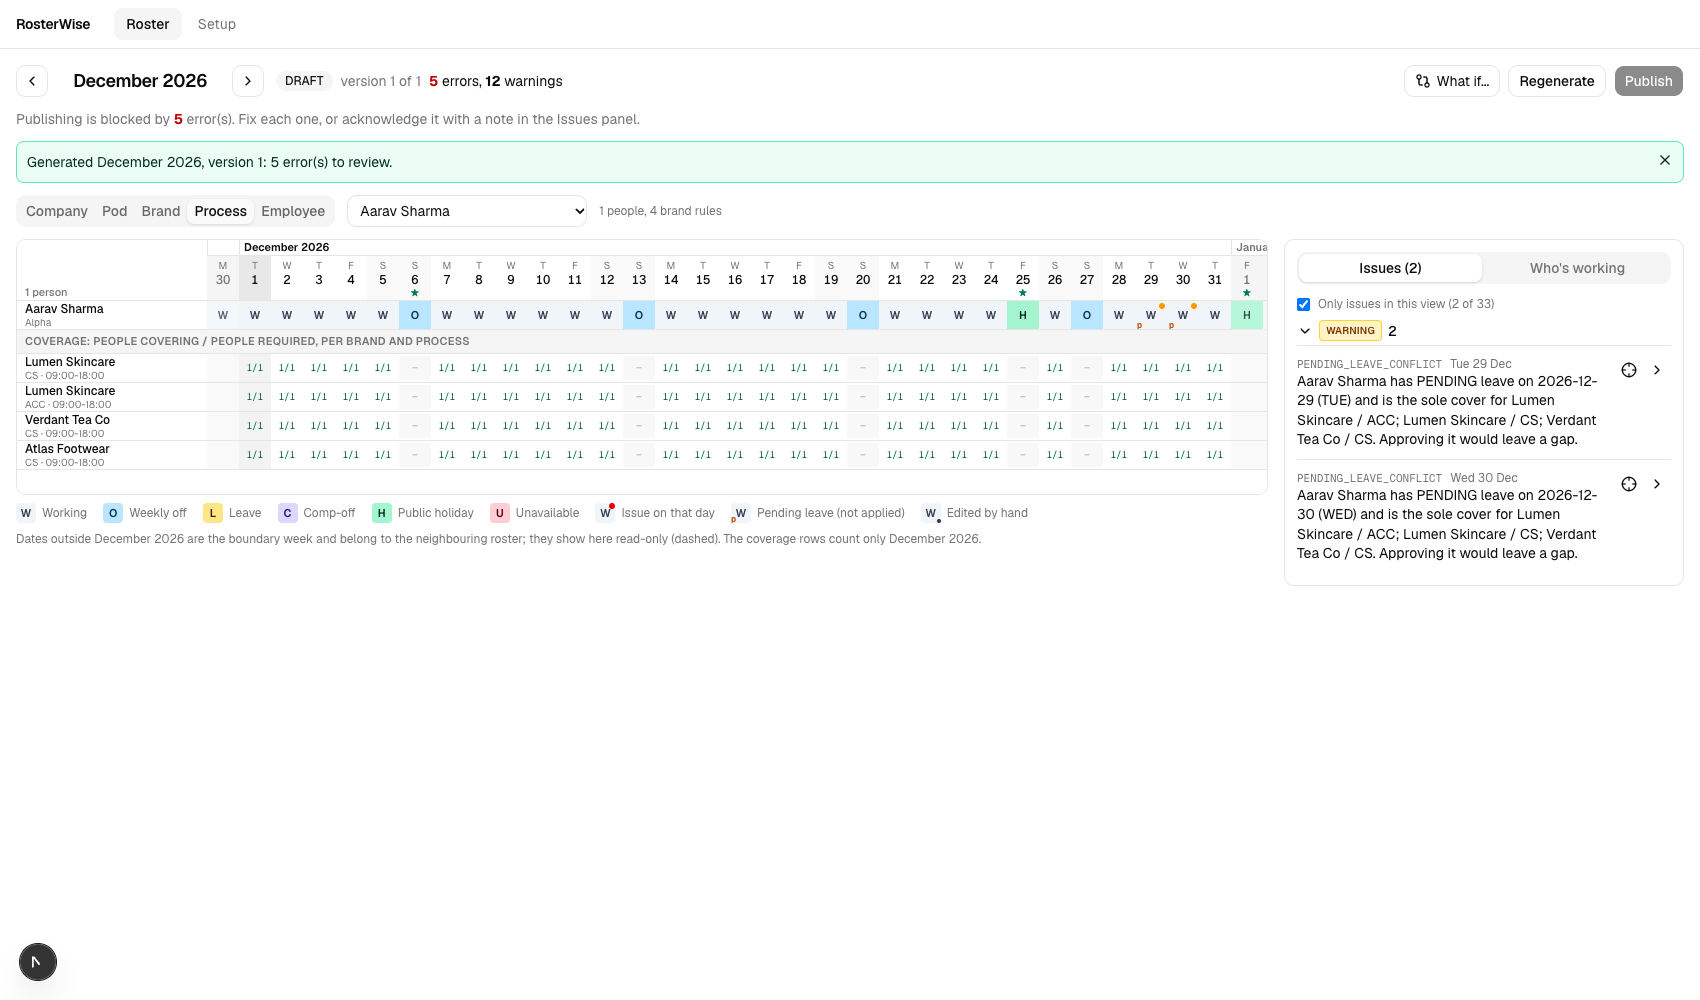
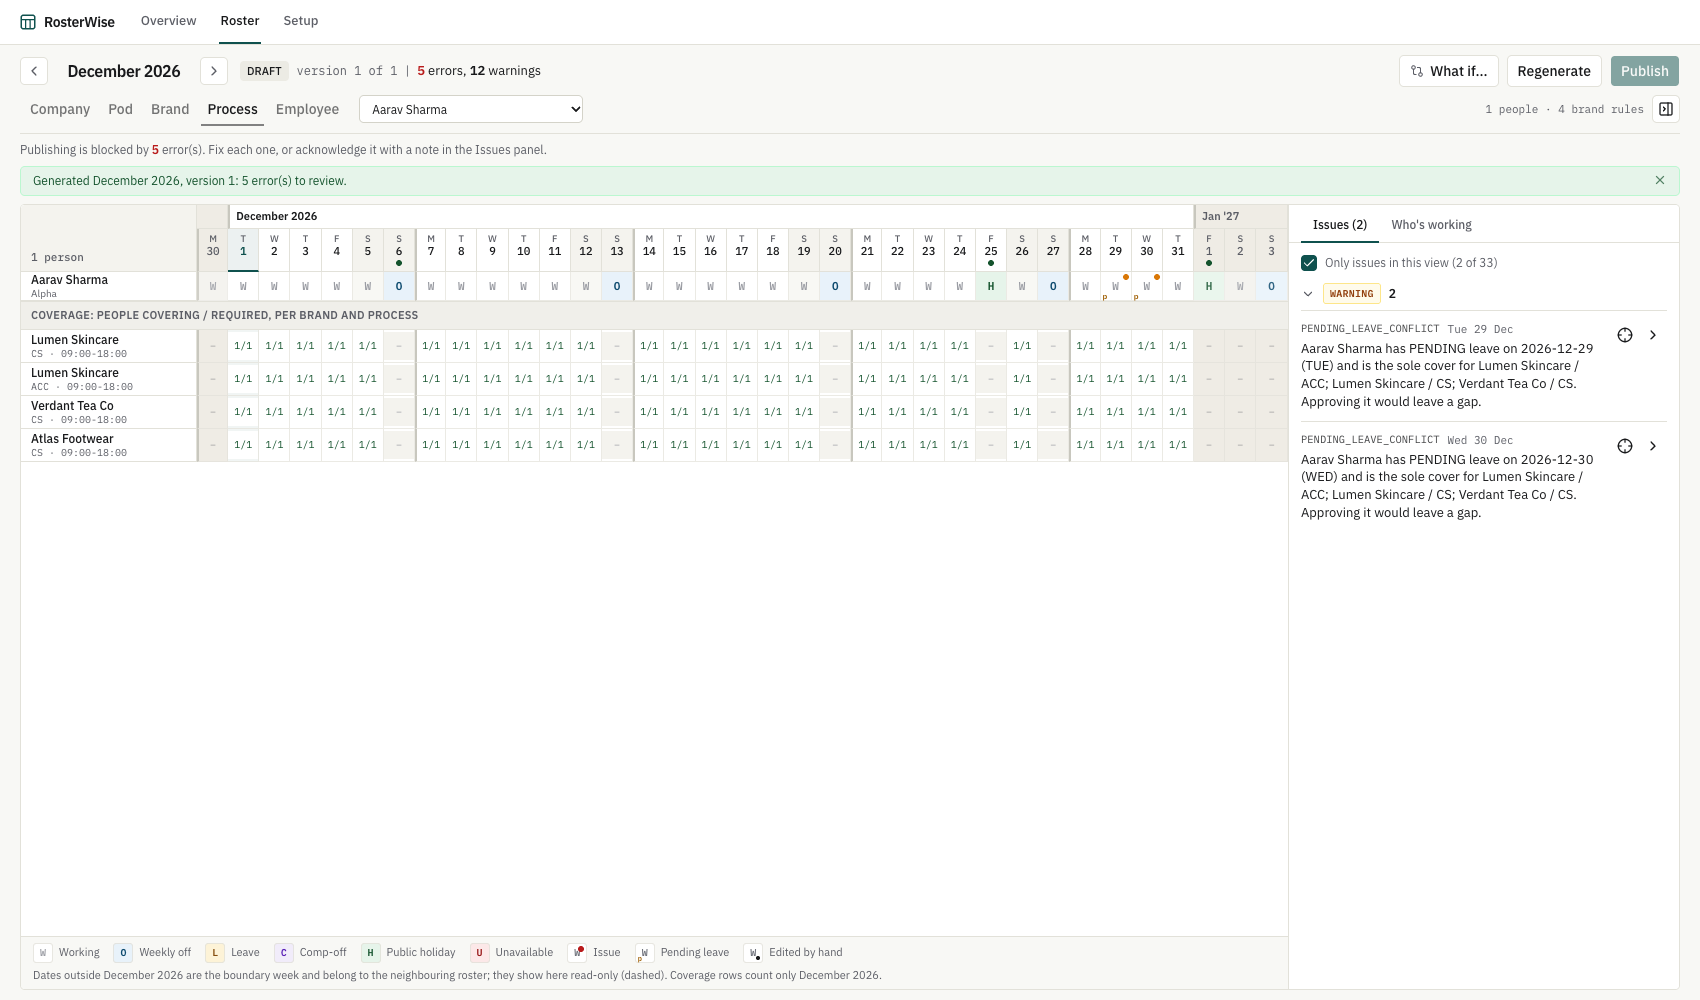
docs: re-run P4 walkthrough on the redesign (production build) and refresh screenshots

diff --git a/scripts/p4-walkthrough.ts b/scripts/p4-walkthrough.ts
@@ -1,8 +1,11 @@
 // Drives the running app in a real browser through the four seeded demo scenarios and the rest of P4, asserting
 // what it sees and saving screenshots to docs/reviews/p4/. It is the P4 gate evidence and a repeatable check.
 //
-//   pnpm db:seed && pnpm dev            # in one terminal (fresh seed: no rosters yet)
-//   pnpm walkthrough:p4                 # in another (BASE_URL overrides http://localhost:3000)
+//   pnpm db:seed && pnpm build && pnpm start   # in one terminal (fresh seed: no rosters yet)
+//   pnpm walkthrough:p4                        # in another (BASE_URL overrides http://localhost:3000)
+//
+// Run it against the PRODUCTION build, not `pnpm dev`: next dev can throw a dev-only
+// "clientReferenceManifest" 500 on a cold compile of a page, which is not an app bug.
 import { mkdirSync } from "node:fs";
 import { chromium, type Locator, type Page } from "playwright-core";
 

diff --git a/docs/PROGRESS.md b/docs/PROGRESS.md
@@ -45,4 +45,5 @@ PDF/CLAUDE.md mismatches found so far: none.
 - **P4 structure:** `src/lib/roster-view.ts` (pure, unit-tested view logic), `src/components/roster/*` (grid, coverage strip, issues, who's working, cell dialog, what-if), `src/components/setup/*` (one generic manager driven by `resources.ts`), `src/server/pageData.ts`. New engine export `coverageTable`; the service gained `editCells` (batch edit, one path for manual edits and suggestions) and `applySuggestionToRoster`.
 - **shadcn trap, again:** `shadcn add` re-adds the unrelated npm package `cn` and imports from it. After every `add`: `sed -i '' 's#from "cn"#from "@/lib/utils"#' src/components/ui/*.tsx && pnpm remove cn`.
 - **Two scaffold bugs found by looking at the screenshots:** `--font-sans: var(--font-sans)` was circular, and the Geist variables sat on `<body>` while `font-sans` is applied on `<html>`, so the whole UI fell back to a serif font. Fixed in `globals.css` and `layout.tsx`.
-- **`pnpm walkthrough:p4`** (`scripts/p4-walkthrough.ts`, Playwright driving the installed Chrome) walks the four demo scenarios, the boundary week, the publish gate and setup CRUD, asserts what it sees, and writes the screenshots in `docs/reviews/p4/`. It needs `pnpm db:seed && pnpm dev` first and is not part of CI (needs a browser).
+- **`pnpm walkthrough:p4`** (`scripts/p4-walkthrough.ts`, Playwright driving the installed Chrome) walks the four demo scenarios, the boundary week, the publish gate and setup CRUD, asserts what it sees, and writes the screenshots in `docs/reviews/p4/`. Run it against a production build (`pnpm db:seed && pnpm build && pnpm start`), not `pnpm dev`, which can throw a dev-only 500 on a cold page compile. It is not part of CI (needs a browser).
+- **P4 passed; UI redesigned afterwards** (Owner): a new Overview home page (stats, per-pod errors, needs-attention list), pod-grouped grid rows with a person filter, a collapsible side panel and a green accent. Re-verified on the redesign: lint, format, typecheck, 209 tests, production build, and `pnpm walkthrough:p4` against `pnpm start` (`WALKTHROUGH OK`, 0 browser errors, 0 server errors in the log); the 19 screenshots in `docs/reviews/p4/` were regenerated.
